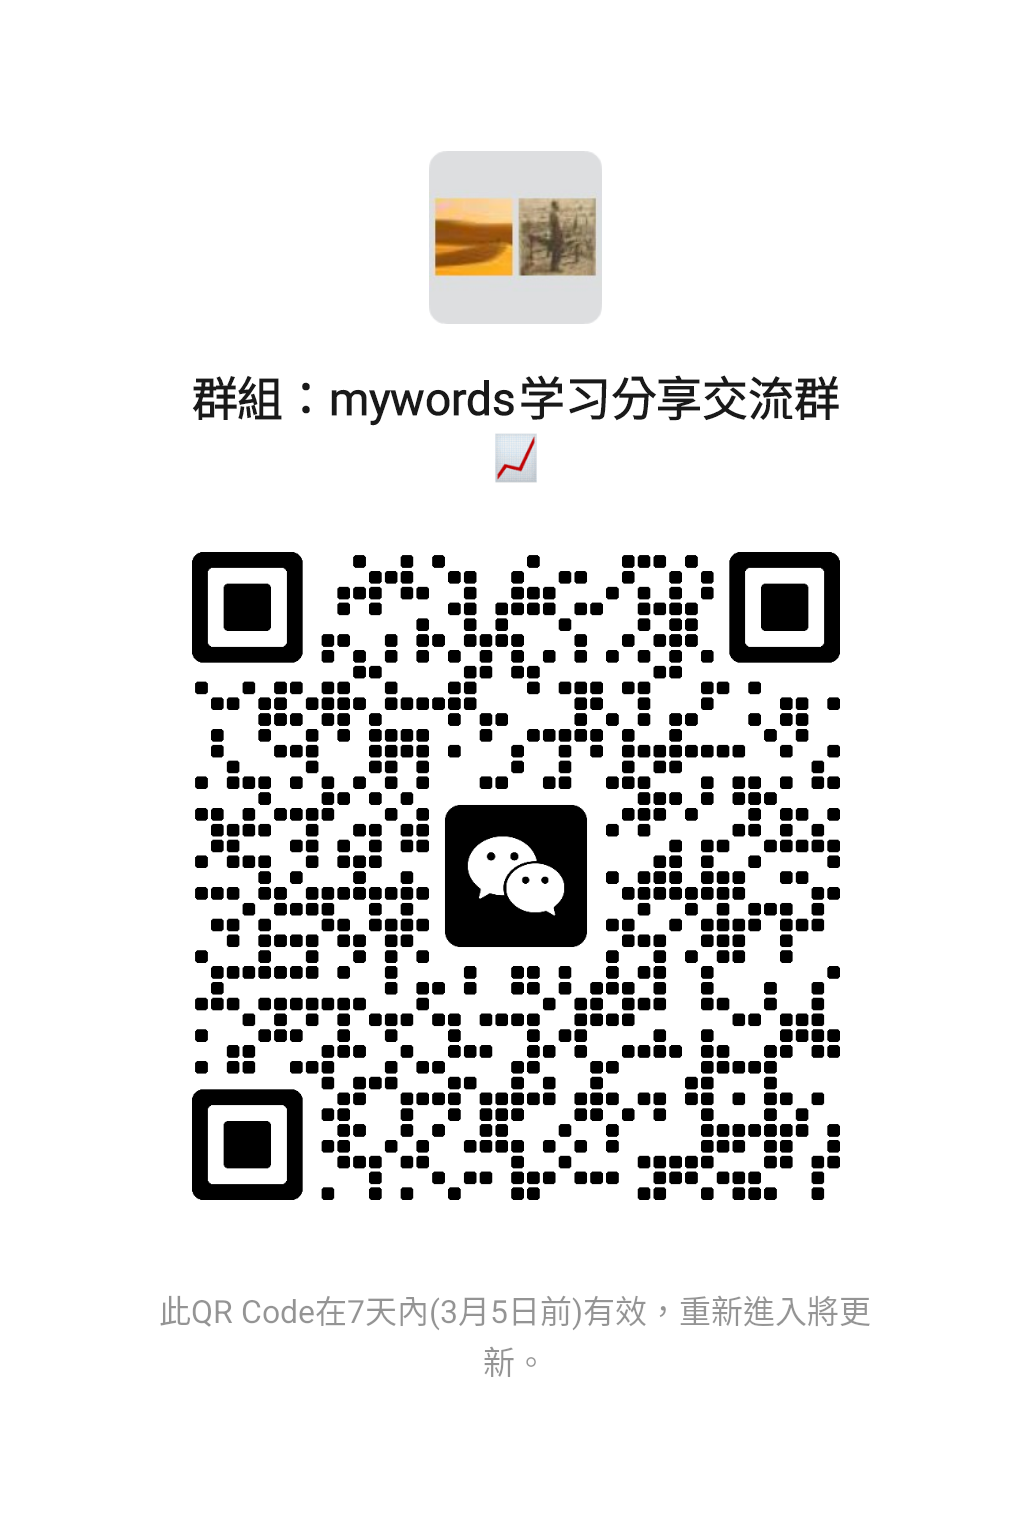
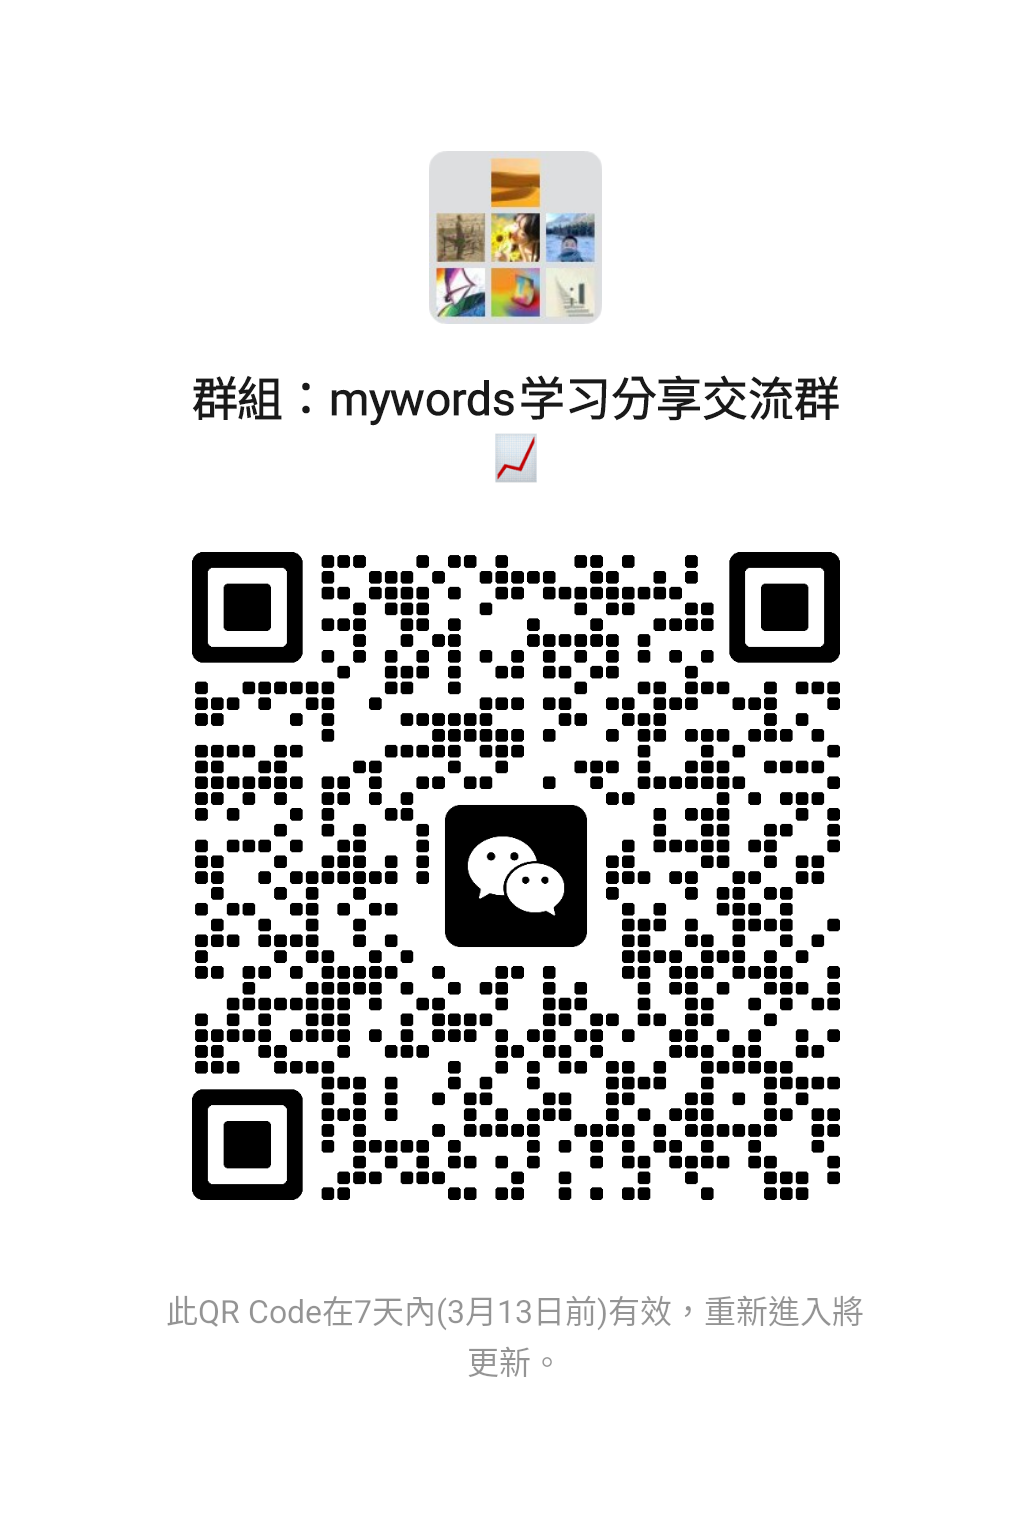
Update readme.md;update wechat-group.png

Changed region(s): [[0.1862, 0.337, 0.838, 0.7966], [0.1552, 0.8272, 0.838, 0.9192], [0.4035, 0.0919, 0.5897, 0.2145]]

diff --git a/readme.md b/readme.md
@@ -38,18 +38,6 @@
   ![img.png](images/the-economist-china.png)
 利用这些资源，您不仅能够有针对性地扩充您的词汇，也可以深入了解不同的话题和背景知识，全方位提升英语能力。
 
-
-## 项目依赖
-- Windows 环境下，需要对CGO进行支持
-- 如果没有安装对应的 CGO 运行时环境、则在运行的时候会引发如下错误。
-  > exec: “gcc”: executable file not found in %PATH%
-    - Windows GO 语言 CGO 运行时环境配置
-        - https://www.expoli.tech/articles/2022/10/18/1666087321618
-
-    - Make for Windows
-        - https://gnuwin32.sourceforge.net/packages/make.htm
-        - Complete package, except sources
-
 ## 开始使用指南
 想要开始使用这个英语单词学习工具，你需要根据你的使用平台选择正确的编译指令进行编译操作：
 - **编译前提**：
@@ -114,9 +102,9 @@
 
   - 结构说明：
     - `data/`: 文件夹，存放字典资源文件，如图片、声音等。
-    - `html/`: 文件夹，存放单词释义的html文件，文件名应包含`.html`后缀。
-    - `*.css`, `*.js`: 文件，html文件夹下的html文件需要引用的资源
-    - `word_html_map.json`: 文件，存放单词和html文件名的映射关系，格式为键值对（key为单词，value为html文件名(不含`.html`后缀)）。
+    - `html/`: 文件夹，存放单词释义的html文件。
+    - `*.css`, `*.js`: 文件，html文件夹下的html文件需要引用的资源，文件名应包含.html后缀。
+    - `word_html_map.json`: json文件，存放单词和html文件名的映射关系，格式为键值对json（key为单词，value为html文件名，不含.html后缀）。
 
 4. **自制词典数据**：
   - 您可以下载mdx/mdd格式的词典文件，例如[牛津高阶英汉双解词典（第10版）V3](http://louischeung.top:225/mdict%E8%AF%8D%E5%85%B8%E5%8C%85/%E7%89%9B%E6%B4%A5%E9%AB%98%E9%98%B6%E8%8B%B1%E6%B1%89%E5%8F%8C%E8%A7%A3%E8%AF%8D%E5%85%B8%EF%BC%88%E7%AC%AC10%E7%89%88%EF%BC%89V3/)
